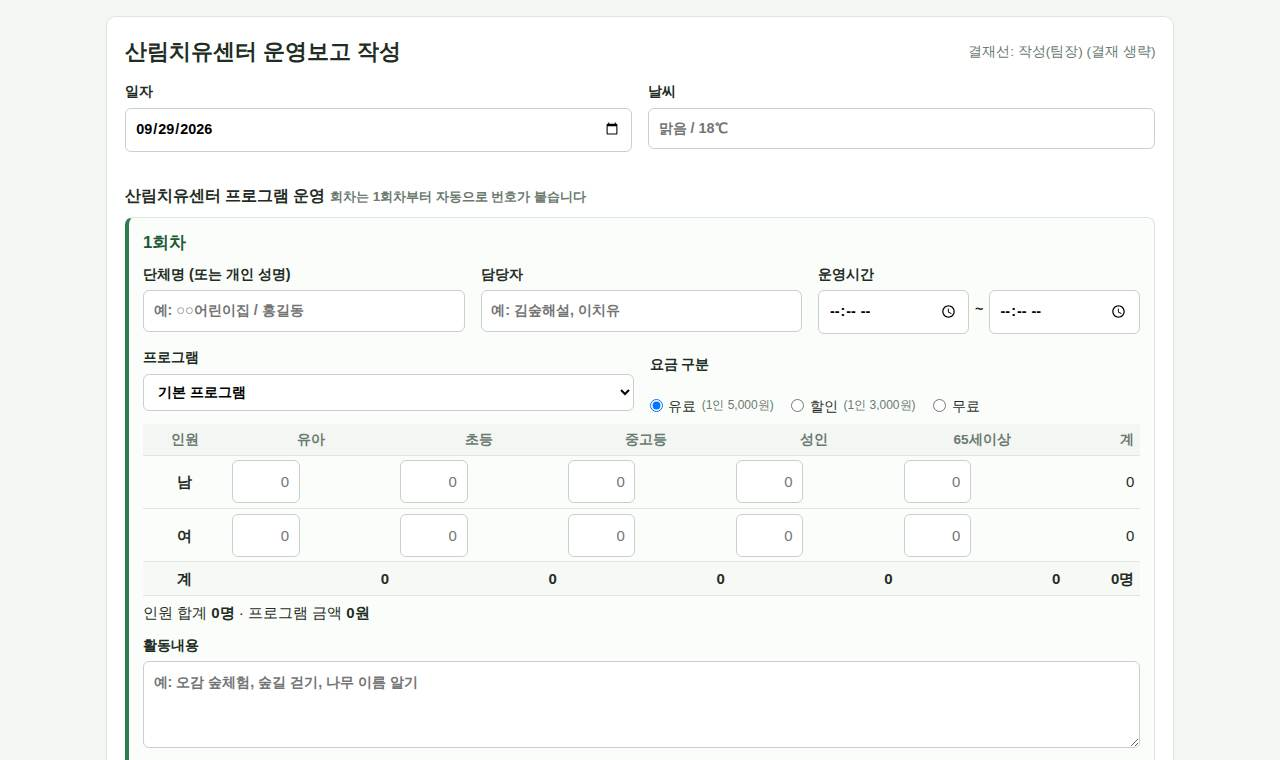
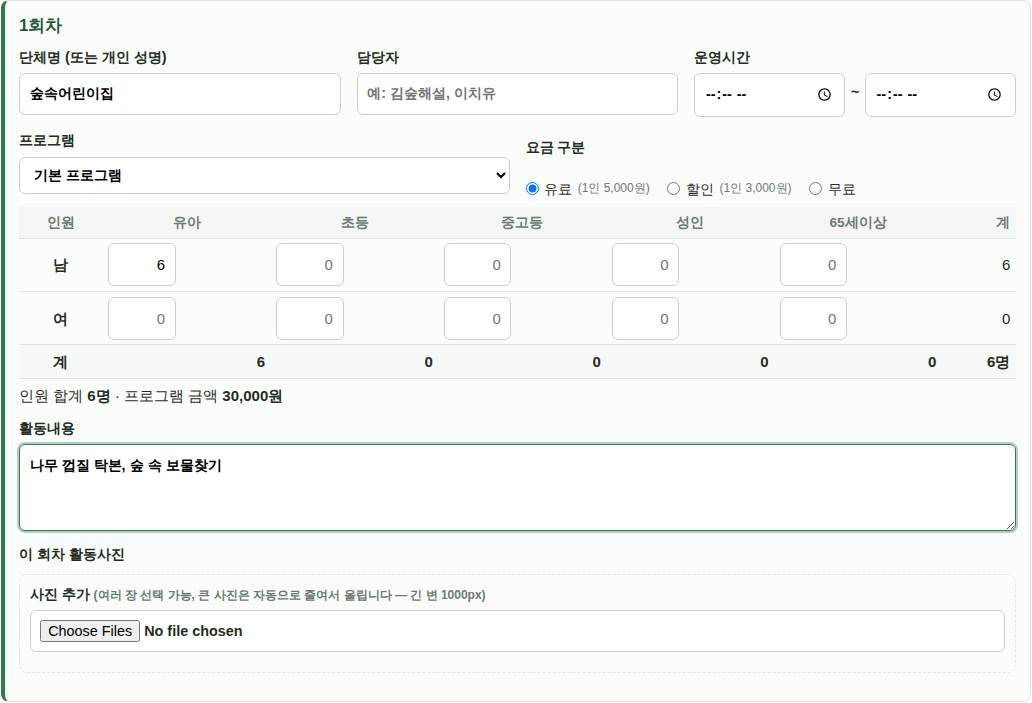
프로그램 운영보고 활동사진을 회차별로: 회차 id 유지 저장, 회차 카드별 사진 올리기·삭제, 보기에 회차별 사진, 기존 보고서 사진은 1회차로 이전 (DB v37)
Claude-Session: https://claude.ai/code/session_01Lr6yxKyasrSL9QLfMX5TX8

diff --git a/assets/app.js b/assets/app.js
@@ -262,8 +262,11 @@
     const blob = await new Promise((r) => canvas.toBlob(r, 'image/jpeg', Q));
     return blob ? new File([blob], file.name.replace(/\.\w+$/, '') + '.jpg', { type: 'image/jpeg' }) : file;
   }
-  document.querySelectorAll('input[type=file][data-resize]').forEach((input) => {
-    input.addEventListener('change', async () => {
+  // 문서 전체에서 받는다 → 나중에 추가된 칸(예: 운영보고 '+ 회차 추가')도 줄여서 올림
+  document.addEventListener('change', async (ev) => {
+    const input = ev.target;
+    if (!input.matches || !input.matches('input[type=file][data-resize]')) return;
+    {
       if (!window.DataTransfer || !window.createImageBitmap) return; // 구형 브라우저는 원본 그대로
       const form = input.form;
       const buttons = form ? form.querySelectorAll('button') : [];
@@ -280,7 +283,7 @@
       } finally {
         buttons.forEach((b) => (b.disabled = false));
       }
-    });
+    }
   });
 })();
 

diff --git a/assets/program.js b/assets/program.js
@@ -55,8 +55,8 @@
     const btn = ev.target.closest('[data-remove-session]');
     if (!btn) return;
     const card = btn.closest('[data-session]');
-    const filled = [...card.querySelectorAll('input:not([type=radio]), textarea')].some((i) => i.value.trim() !== '');
-    if (filled && !confirm('이 회차를 삭제할까요? 뒤 회차 번호가 앞으로 당겨집니다.')) return;
+    const filled = [...card.querySelectorAll('input:not([type=radio]):not([type=hidden]), textarea')].some((i) => i.value.trim() !== '') || !!card.querySelector('.photo-editor img');
+    if (filled && !confirm('이 회차를 삭제할까요? 뒤 회차 번호가 앞으로 당겨지고, 저장하면 이 회차의 활동사진도 함께 삭제됩니다.')) return;
     card.remove();
     recalc();
   });

diff --git a/assets/style.css b/assets/style.css
@@ -1062,3 +1062,10 @@ body.tab-shell > main.container .tab-frames { bottom: 38px; }
   padding: 0 .8rem; font-size: .8rem; cursor: pointer; white-space: nowrap; }
 .tabbar-closeall:hover:not(:disabled) { background: rgba(255,255,255,.12); }
 .tabbar-closeall:disabled { opacity: .45; cursor: default; }
+
+/* 프로그램 운영보고: 회차별 활동사진 */
+.prog-photos { margin-top: .5rem; }
+.prog-photos .label-text { font-weight: 600; font-size: .9rem; display: block; margin-bottom: .25rem; }
+.prog-photos .photo-editor { padding: .5rem .6rem; }
+.prog-photos .gallery .thumb img { max-height: 110px; }
+.prog-activity .gallery { margin-top: .4rem; }

diff --git a/app/programs.php b/app/programs.php
@@ -6,7 +6,8 @@ defined('APP_ROOT') || exit;
  *  - 분야별로 하루 1건. 보고서 안에 회차(1회차부터 자동 번호)를 여러 개 입력
  *  - 회차: 단체명(개인 성명), 담당자, 운영시간, 인원(남·여 × 유아·초등·중고등·성인·65세이상), 유료/무료, 활동내용
  *  - 회차마다 프로그램(설정 › 상품·요금 › 프로그램)을 고르고, 프로그램 금액 = 인원 합계 × 그 프로그램의 1인 요금 (유료 / 할인 / 무료)
- *  - 활동사진은 보고서에 여러 장 (photos.owner_type 'program', 긴 변 PROGRAM_PHOTO_MAX px)
+ *  - 활동사진은 회차마다 여러 장 (photos.owner_type 'program_session', owner_id = program_sessions.id, 긴 변 PROGRAM_PHOTO_MAX px)
+ *    회차는 저장할 때 id 를 유지한다(지우고 다시 넣지 않음) — 사진이 회차에 계속 붙어 있도록
  */
 const PROGRAM_PHOTO_MAX = 1000;
 
@@ -80,9 +81,11 @@ function program_parse(string $type, string $workDate, int $journalId): array
         $keep = array_map('intval', $st->fetchAll(PDO::FETCH_COLUMN));
     }
     $products = program_products($type, $workDate, $keep);
-    foreach ((array) ($_POST['s'] ?? []) as $row) {
+    foreach ((array) ($_POST['s'] ?? []) as $formKey => $row) {
         if (!is_array($row)) continue;
         $s = program_empty_session();
+        $s['id'] = to_int($row['id'] ?? 0) ?: null; // 기존 회차 (사진 유지)
+        $s['form_key'] = (string) $formKey;          // 이 회차의 사진 업로드 칸 sp[form_key][]
         $s['group_name'] = mb_substr(trim((string) ($row['group_name'] ?? '')), 0, 100);
         $s['staff'] = mb_substr(trim((string) ($row['staff'] ?? '')), 0, 100);
         foreach (program_people_cols() as $c) $s[$c] = min(9999, to_int($row[$c] ?? 0));
@@ -95,8 +98,8 @@ function program_parse(string $type, string $workDate, int $journalId): array
         $product = $products[(int) ($row['product_id'] ?? 0)] ?? null;
         $s['product_id'] = $product ? (int) $product['id'] : null;
         $s['product_name'] = $product['name'] ?? null;
-        // 아무것도 입력하지 않은 회차는 건너뜀
-        if ($s['group_name'] === '' && $s['total'] === 0 && $s['activity'] === '' && $s['start_time'] === '') continue;
+        // 아무것도 입력하지 않은 새 회차는 건너뜀
+        if (!$s['id'] && $s['group_name'] === '' && $s['total'] === 0 && $s['activity'] === '' && $s['start_time'] === '') continue;
 
         $no = count($sessions) + 1;
         if ($s['group_name'] === '') $errors[] = "{$no}회차: 단체명(또는 개인 성명)을 입력하세요.";
@@ -121,23 +124,72 @@ function program_parse(string $type, string $workDate, int $journalId): array
     return [['sessions' => $sessions ?: [program_empty_session()]], $errors];
 }
 
-/** 트랜잭션 안에서 호출. 회차 저장 + 활동사진 추가·삭제 */
+/** 그 보고서의 회차 id 목록 */
+function program_session_ids(int $journalId): array
+{
+    $st = db()->prepare('SELECT id FROM program_sessions WHERE journal_id = ?');
+    $st->execute([$journalId]);
+    return array_map('intval', $st->fetchAll(PDO::FETCH_COLUMN));
+}
+
+/** 트랜잭션 안에서 호출. 회차 저장(기존 회차는 id 유지) + 회차별 활동사진 추가·삭제 */
 function program_save(int $journalId, array $payload): void
 {
     $pdo = db();
-    $pdo->prepare('DELETE FROM program_sessions WHERE journal_id = ?')->execute([$journalId]);
     $cols = ['session_no', 'group_name', 'staff', 'product_id', 'product_name', 'start_time', 'end_time', ...program_people_cols(), 'total', 'is_paid', 'fee_type', 'fee', 'amount', 'activity'];
     $ins = $pdo->prepare('INSERT INTO program_sessions (journal_id, ' . implode(', ', $cols) . ') VALUES (?' . str_repeat(', ?', count($cols)) . ')');
+    $upd = $pdo->prepare('UPDATE program_sessions SET ' . implode(', ', array_map(fn($c) => "$c = ?", $cols)) . ' WHERE id = ? AND journal_id = ?');
+    $existing = program_session_ids($journalId);
+    $kept = [];
+    $del = (array) ($_POST['delete_photos'] ?? []);
+    $uid = (int) (current_user()['id'] ?? 0);
     foreach ($payload['sessions'] as $s) {
         $s['start_time'] = $s['start_time'] ?: null;
         $s['end_time'] = $s['end_time'] ?: null;
         $s['activity'] = $s['activity'] !== '' ? $s['activity'] : null;
         $s['staff'] = $s['staff'] !== '' ? $s['staff'] : null;
-        $ins->execute([$journalId, ...array_map(fn($c) => $s[$c], $cols)]);
+        $vals = array_map(fn($c) => $s[$c], $cols);
+        if (!empty($s['id']) && in_array((int) $s['id'], $existing, true)) {
+            $sid = (int) $s['id'];
+            $upd->execute([...$vals, $sid, $journalId]);
+        } else {
+            $ins->execute([$journalId, ...$vals]);
+            $sid = (int) $pdo->lastInsertId();
+        }
+        $kept[] = $sid;
+        photos_delete('program_session', $sid, $del);
+        foreach (program_session_photos_save((string) ($s['form_key'] ?? ''), $sid, $uid) as $err) flash($err, 'error');
     }
-    photos_delete('program', $journalId, (array) ($_POST['delete_photos'] ?? []));
-    $user = current_user();
-    foreach (photos_save_uploaded('program', $journalId, (int) ($user['id'] ?? 0), PROGRAM_PHOTO_MAX) as $err) flash($err, 'error');
+    // 화면에서 지운 회차: 사진과 함께 삭제
+    foreach (array_diff($existing, $kept) as $sid) {
+        photos_delete_all('program_session', $sid);
+        $pdo->prepare('DELETE FROM program_sessions WHERE id = ?')->execute([$sid]);
+    }
+}
+
+/** 회차 사진 업로드 ($_FILES['sp']['name'][form_key][]) @return string[] 오류 */
+function program_session_photos_save(string $formKey, int $sessionId, int $userId): array
+{
+    $f = $_FILES['sp'] ?? null;
+    if ($formKey === '' || !$f || !isset($f['name'][$formKey]) || !is_array($f['name'][$formKey])) return [];
+    $errors = [];
+    foreach ($f['name'][$formKey] as $i => $name) {
+        [$path, $error] = store_uploaded_image((string) $name, (string) $f['tmp_name'][$formKey][$i], (int) $f['error'][$formKey][$i], 'program');
+        if ($error) $errors[] = $error;
+        if ($path) {
+            image_downscale(APP_ROOT . '/' . $path, PROGRAM_PHOTO_MAX);
+            db()->prepare("INSERT INTO photos (owner_type, owner_id, path, user_id) VALUES ('program_session', ?, ?, ?)")->execute([$sessionId, $path, $userId]);
+        }
+    }
+    return $errors;
+}
+
+/** 보고서의 회차별 사진: session_id => photos */
+function program_photos_by_session(array $sessions): array
+{
+    $out = [];
+    foreach ($sessions as $s) if (!empty($s['id'])) $out[(int) $s['id']] = photos_for('program_session', (int) $s['id']);
+    return $out;
 }
 
 /** "10:00~12:00" */
@@ -179,6 +231,7 @@ function program_session_card(string $key, array $s, int $no, array $products): 
     $cur = $products[$pid] ?? null;
     ?>
   <div class="prog-session" data-session>
+    <input type="hidden" name="<?= $n('id') ?>" value="<?= (int) ($s['id'] ?? 0) ?: '' ?>">
     <div class="prog-session-head">
       <b><span data-no><?= $no ?></span>회차</b>
       <button type="button" class="btn small ghost danger" data-remove-session>회차 삭제</button>
@@ -223,6 +276,10 @@ function program_session_card(string $key, array $s, int $no, array $products): 
     </div>
     <p class="prog-amount">인원 합계 <b data-total-text>0명</b> · 프로그램 금액 <b data-amount>0원</b></p>
     <label>활동내용<textarea name="<?= $n('activity') ?>" rows="3" placeholder="예: 오감 숲체험, 숲길 걷기, 나무 이름 알기"><?= e($s['activity'] ?? '') ?></textarea></label>
+    <div class="prog-photos">
+      <span class="label-text">이 회차 활동사진</span>
+      <?php render_photo_editor('program_session', !empty($s['id']) ? (int) $s['id'] : null, PROGRAM_PHOTO_MAX, "sp[$key]", '사진 추가') ?>
+    </div>
   </div>
     <?php
 }
@@ -247,8 +304,6 @@ function program_form(string $type, array $payload, string $workDate, ?array $jo
     <small class="muted">(남 <span data-sum-m>0</span> · 여 <span data-sum-f>0</span> / 유료 <span data-sum-paid>0</span> · 할인 <span data-sum-discount>0</span> · 무료 <span data-sum-free>0</span>)</small>
     · 금액 <b data-sum-amount>0원</b></div>
 
-  <h3>활동사진</h3>
-  <?php render_photo_editor('program', $journal ? (int) $journal['id'] : null, PROGRAM_PHOTO_MAX) ?>
 </div>
 <script src="<?= e(url('assets/program.js')) ?>" defer></script>
     <?php
@@ -287,15 +342,14 @@ function program_view(array $journal): void
       <th class="right"><?= number_format($t['total']) ?></th><th></th><th class="right"><?= number_format($t['amount']) ?></th></tr></tfoot>
   </table>
   </div>
-  <?php if (array_filter(array_column($sessions, 'activity'))): ?>
-    <h3>활동내용</h3>
-    <?php foreach ($sessions as $s): if (!$s['activity']) continue; ?>
-      <div class="prog-activity"><b><?= (int) $s['session_no'] ?>회차 · <?= e($s['group_name']) ?></b><div class="pre"><?= e($s['activity']) ?></div></div>
+  <?php $photos = program_photos_by_session($sessions);
+  if (array_filter(array_column($sessions, 'activity')) || array_filter($photos)): ?>
+    <h3>회차별 활동내용 · 활동사진</h3>
+    <?php foreach ($sessions as $s): $ph = $photos[(int) $s['id']] ?? []; if (!$s['activity'] && !$ph) continue; ?>
+      <div class="prog-activity"><b><?= (int) $s['session_no'] ?>회차 · <?= e($s['group_name']) ?></b><?= $ph ? ' <small class="muted">사진 ' . count($ph) . '장</small>' : '' ?>
+        <?php if ($s['activity']): ?><div class="pre"><?= e($s['activity']) ?></div><?php endif ?>
+        <?php render_gallery($ph) ?></div>
     <?php endforeach ?>
-  <?php endif ?>
-  <?php if ($photos = photos_for('program', (int) $journal['id'])): ?>
-    <h3>활동사진 <small class="muted"><?= count($photos) ?>장</small></h3>
-    <?php render_gallery($photos) ?>
   <?php endif ?>
     <?php
 }
@@ -311,9 +365,10 @@ function program_snapshot(array $journal): array
         }
         $lines[] = "{$s['session_no']}회차 · {$s['group_name']}" . (!empty($s['staff']) ? " · 담당 {$s['staff']}" : '') . (!empty($s['product_name']) ? " · {$s['product_name']}" : '') . (program_time($s) ? ' · ' . program_time($s) : '')
             . ' · ' . implode(', ', $people) . " = {$s['total']}명 · " . (PROGRAM_FEE_TYPES[$s['fee_type']] ?? '') . ($s['amount'] ? ' ' . number_format($s['amount']) . '원' : '')
-            . ($s['activity'] ? ' · 활동: ' . preg_replace('/\s+/', ' ', $s['activity']) : '');
+            . ($s['activity'] ? ' · 활동: ' . preg_replace('/\s+/', ' ', $s['activity']) : '')
+            . ' · 사진 ' . count(photos_for('program_session', (int) $s['id'])) . '장';
     }
-    return ['회차' => $lines, '활동사진' => count(photos_for('program', (int) $journal['id'])) . '장'];
+    return ['회차' => $lines];
 }
 
 /* ───────────── 매출보고 '프로그램 판매' 연동 ───────────── */

diff --git a/app/migrate.php b/app/migrate.php
@@ -6,7 +6,7 @@ defined('APP_ROOT') || exit;
  * 새 버전 파일을 FTP로 덮어쓰기만 하면, 첫 접속 때 부족한 테이블/컬럼을 만든다.
  * (기존 자료는 그대로 유지)
  */
-const DB_VERSION = 36;
+const DB_VERSION = 37;
 
 function db_version(): int
 {
@@ -359,6 +359,15 @@ function db_migrate(): void
     }
 
     // 36) v35 → v36: 로그인 화면 자동 로그인 (auth_tokens 는 1) 단계에서 생성)
+
+    // 37) v36 → v37: 프로그램 운영보고 활동사진을 회차별로 (photos.owner_type program_session, owner_id = program_sessions.id).
+    //     보고서 전체에 붙어 있던 사진은 그 보고서의 1회차(첫 회차)로 옮긴다.
+    if (!enum_has('photos', 'owner_type', 'program_session')) {
+        $pdo->exec("ALTER TABLE photos MODIFY owner_type ENUM('facility','equipment','program','purchase_check','purchase_receipt','program_session') NOT NULL");
+    }
+    $pdo->exec("UPDATE photos p JOIN program_sessions s ON s.id = (SELECT s2.id FROM program_sessions s2 WHERE s2.journal_id = p.owner_id ORDER BY s2.session_no, s2.id LIMIT 1)
+                   SET p.owner_type = 'program_session', p.owner_id = s.id
+                 WHERE p.owner_type = 'program'");
 
     $pdo->prepare("INSERT INTO settings (name, value) VALUES ('db_version', ?) ON DUPLICATE KEY UPDATE value = VALUES(value)")
         ->execute([(string) DB_VERSION]);

diff --git a/app/changelog.php b/app/changelog.php
@@ -7,6 +7,11 @@ defined('APP_ROOT') || exit;
  *   ['date' => 'YYYY-MM-DD', 'title' => '한 줄 요약', 'items' => ['자세한 내용', ...], 'menu' => '관련 메뉴(선택)']
  */
 const CHANGELOG = [
+    ['date' => '2026-09-28', 'title' => '프로그램 운영보고: 활동사진을 회차별로', 'menu' => '프로그램', 'items' => [
+        '모든 프로그램 운영보고에서 활동사진을 회차마다 올립니다 (회차 카드 아래 \'이 회차 활동사진\'). 보기 화면에 회차별 활동내용과 사진이 함께 나옵니다.',
+        '회차를 삭제하고 저장하면 그 회차의 사진도 함께 지워집니다. 수정 이력에 회차별 사진 장수가 남습니다.',
+        '예전에 보고서 전체로 올린 사진은 그 보고서의 1회차로 옮겼습니다.',
+    ]],
     ['date' => '2026-09-25', 'title' => '로그아웃·로그인 만료 시 탭 모두 닫기', 'menu' => '탭', 'items' => [
         '로그아웃하거나 로그인 시간이 끝나면 열어 둔 탭이 모두 닫힙니다. 같은 PC에서 다른 계정으로 로그인해도 앞사람의 탭이 열리지 않습니다.',
         '입력 중인 탭이 있을 때 로그아웃하면 먼저 확인합니다.',

diff --git a/app/help.php b/app/help.php
@@ -190,7 +190,9 @@ HTML],
 <ul>
   <li><b>회차</b>를 여러 개 입력합니다 (번호 자동). 회차마다 단체명, 담당자, 운영시간, <b>프로그램</b>, <b>요금 구분</b>(유료·할인·무료), 남·여 × 연령대 인원, 활동내용.</li>
   <li>금액 = 인원 × 고른 프로그램의 1인 요금 (설정 › 상품·요금 › 프로그램에서 관리).</li>
-  <li><b>활동사진</b> 여러 장. 저장하면 그 날 매출보고의 프로그램 판매가 자동으로 맞춰집니다.</li>
+  <li><b>활동사진은 회차마다</b> 올립니다: 회차 카드 아래 '이 회차 활동사진'에서 여러 장 선택 (긴 변 1000px로 줄여서 저장). 이미 올린 사진은 '삭제' 체크 후 저장하면 지워집니다.</li>
+  <li>회차를 삭제하고 저장하면 그 회차의 사진도 함께 지워집니다. 보기 화면에서는 회차마다 활동내용과 사진이 함께 나옵니다.</li>
+  <li>저장하면 그 날 매출보고의 프로그램 판매가 자동으로 맞춰집니다.</li>
 </ul>
 HTML],
         ]],

diff --git a/app/approval.php b/app/approval.php
@@ -115,7 +115,9 @@ function journal_delete(array $journal): void
 {
     $id = (int) $journal['id'];
     $att = $journal['type'] === 'attendance' ? att_find($id) : null;
+    $sessionIds = is_program_type($journal['type']) ? program_session_ids($id) : []; // 회차 사진은 journals 삭제 전에 찾아 둔다
     db()->prepare('DELETE FROM journals WHERE id = ?')->execute([$id]);
+    foreach ($sessionIds as $sid) photos_delete_all('program_session', $sid);
     if ($att && $att['attachment'] && is_file(APP_ROOT . '/' . $att['attachment'])) @unlink(APP_ROOT . '/' . $att['attachment']);
     if (is_program_type($journal['type'])) { photos_delete_all('program', $id); sales_sync_programs($journal['work_date'], PROGRAM_TYPES[$journal['type']] . ' 운영보고 삭제 (문서 ' . $id . ')'); } // 매출보고 프로그램 판매도 다시 맞춤
     if ($journal['type'] === 'rooms') stay_sync_rooms($journal['work_date']); // 그 날 입실·다음 날 퇴실 인원 다시 계산

diff --git a/sitemap.php b/sitemap.php
@@ -22,7 +22,7 @@ const SITEMAP_DESC = [
     'complaints' => '업무일지에 입력한 민원을 일자·주·월별로 조회, 처리상태 변경·완료 처리',
     'cpl_stats'  => '민원 월별·연간 대분류·중분류별 건수와 객실별 불편·불만(재발 객실) (엑셀·인쇄)',
     'lost'       => '유실물 사진 갤러리, 등록과 처리 상태(접수·연락완료·택배발송·본인수령)',
-    'healing'    => '산림치유센터 프로그램 운영보고 (회차·인원·금액·활동사진)',
+    'healing'    => '산림치유센터 프로그램 운영보고 (회차·인원·금액·회차별 활동사진)',
     'kidsforest' => '유아숲체험원 프로그램 운영보고',
     'kidsdirect' => '유아숲(직영) 프로그램 운영보고',
     'guide2'     => '숲해설(용문산) 프로그램 운영보고',

diff --git a/app/assets.php b/app/assets.php
@@ -227,7 +227,10 @@ function photos_delete(string $type, int $ownerId, array $photoIds): void
 
 function photos_delete_all(string $type, int $ownerId): void
 {
-    photos_delete($type, $ownerId, array_column(photos_for($type, $ownerId), 'id'));
+    // 파일이 이미 없어진 사진 기록도 함께 지운다 (photos_for 는 파일 없는 것을 빼고 돌려줌)
+    $st = db()->prepare('SELECT id FROM photos WHERE owner_type = ? AND owner_id = ?');
+    $st->execute([$type, $ownerId]);
+    photos_delete($type, $ownerId, $st->fetchAll(PDO::FETCH_COLUMN));
 }
 
 /** 사진 편집 영역 (등록/수정 폼 안에서 사용) */
